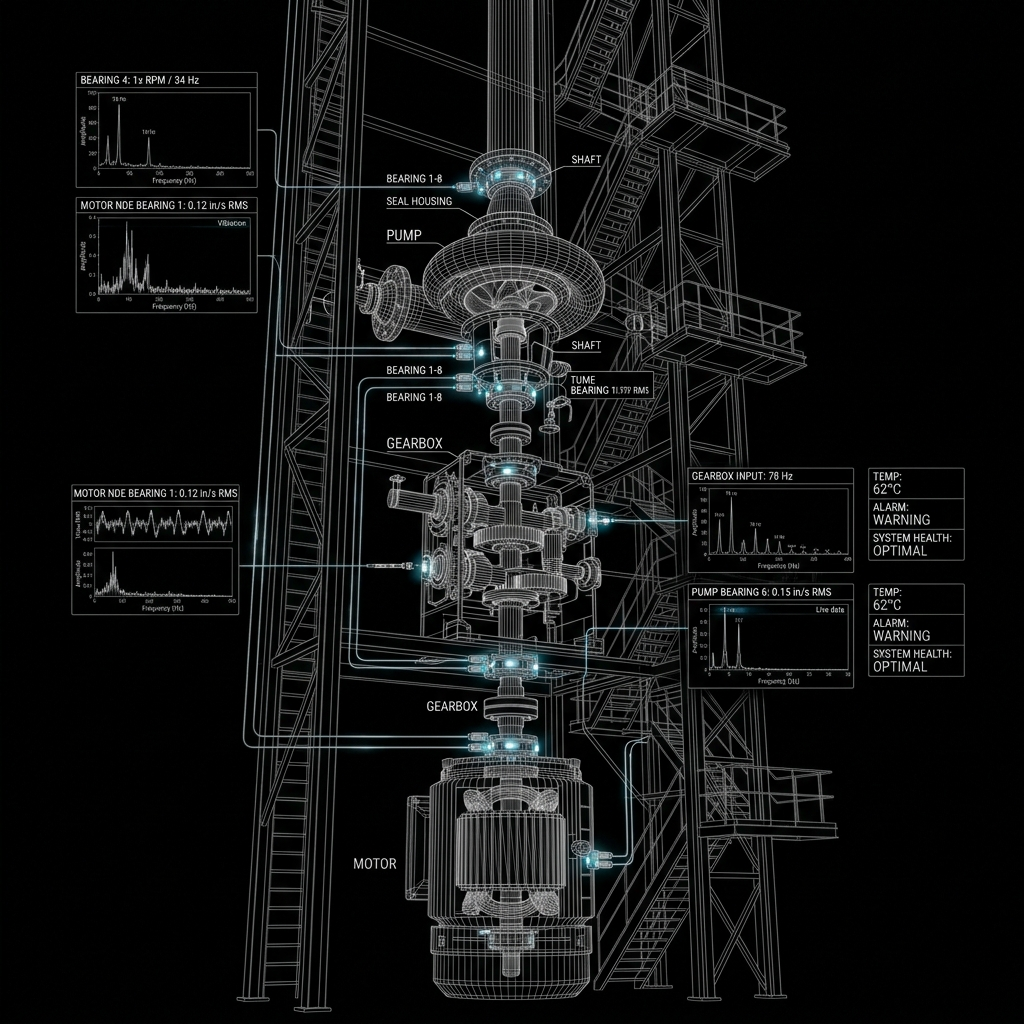
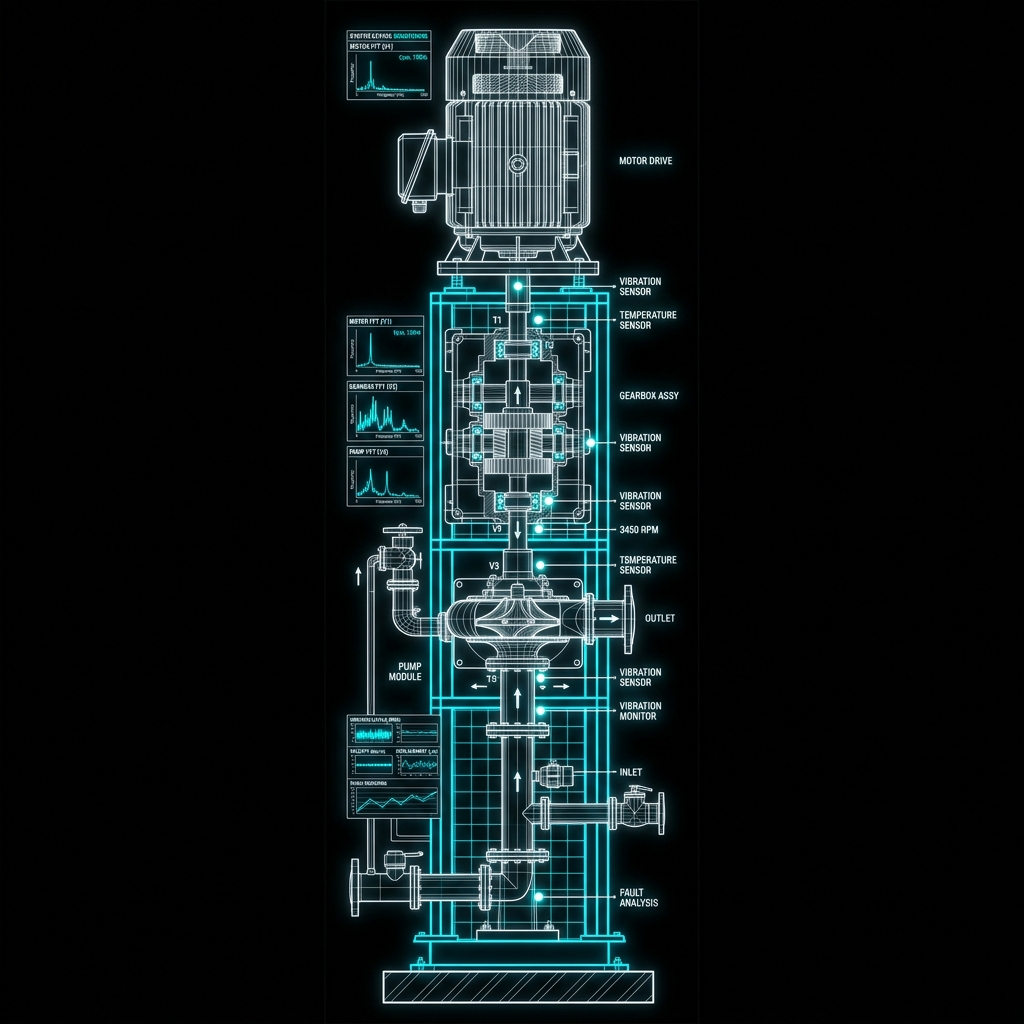
Add files via upload

diff --git a/app.py b/app.py
@@ -32,7 +32,7 @@ def set_background(image_file):
         [data-testid="stSidebar"] {{
             background-color: #000000 !important;
             background-image: url("data:image/png;base64,{bin_str}") !important;
-            background-size: 100% calc(100vh - 280px) !important;
+            background-size: 100% calc(100vh - 310px) !important;
             background-repeat: no-repeat !important;
             background-position: bottom center !important;
         }}